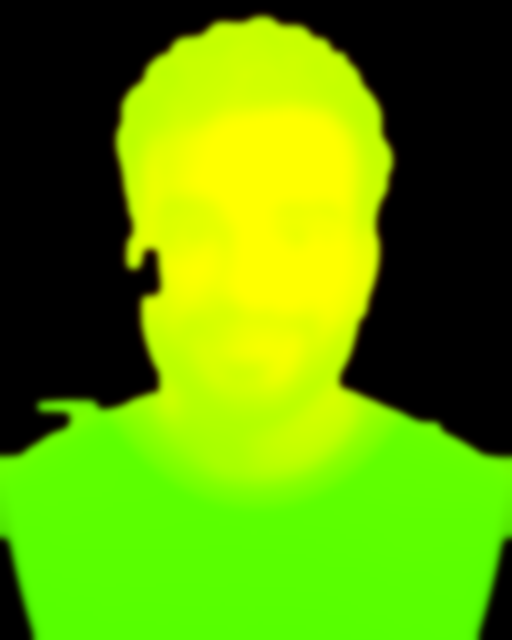
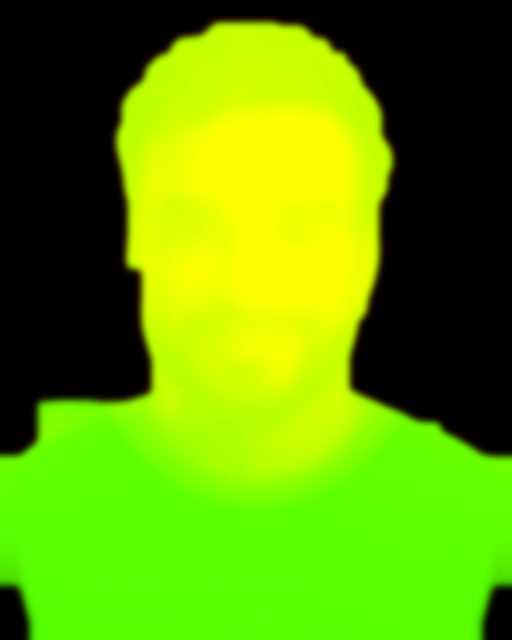
fix: stop the portrait mask slicing through the ear and temple
The displaced bust had a straight vertical cut down the left side of the face
and a pale wedge above the crown. Both were mask edges running through the
subject: in 3D a mask edge is not a soft boundary, it is a slice, because the
vertices behind it are pushed back and turned transparent.

- The lit rim of the ear against the panelling measures luminance 0.44 and
  warmth 0.17 — statistically indistinguishable from the wood behind it, so no
  colour threshold separates them and the ear fell into the dead zone between
  the darkness and skin cues. It is a narrow concavity in an otherwise convex
  head, so it is now closed geometrically instead. The genuinely wide
  concavity between neck and shoulders is far too broad for that radius to
  bridge, so the silhouette keeps its shape.
- A vertical seam in the panelling behind the crown is dark enough to trip the
  darkness cue and touches the hair, so it survived as a 14px spur against a
  13px opening — which erodes 6 per side and leaves 2px to regrow from.
  Widening the opening enough to kill it also ate detail at the ears, so
  everything above the first row wide enough to be a head is cleared instead.

Verified at 360x740 through 1920x1080: no overflow, no over-tall sticky panes,
no console errors.

Claude-Session: https://claude.ai/code/session_01ERrLNC7yMHLTYjqpwFh6NM

diff --git a/scripts/build-portrait-depth.py b/scripts/build-portrait-depth.py
@@ -104,6 +104,26 @@ def fill_holes(arr: np.ndarray, level: float = 0.5) -> np.ndarray:
     return np.clip(arr + holes, 0.0, 1.0)
 
 
+def trim_above_crown(arr: np.ndarray, min_width: int = 60, level: float = 0.5) -> np.ndarray:
+    """
+    Clear anything above the first row that is genuinely the head.
+
+    Vertical seams in the panelling behind the subject are dark enough to trip
+    the darkness cue and touch the hair, so they survive as narrow spurs — the
+    one here was 14px wide against a 13px opening, which erodes 6 per side and
+    leaves 2px to regrow from. Widening the opening far enough to kill it also
+    eats real detail at the ears. In a bust crop nothing legitimate sits above
+    the crown, so the first row wide enough to be a head is the ceiling.
+    """
+    rows = (arr > level).sum(axis=1)
+    wide = np.where(rows >= min_width)[0]
+    if len(wide) == 0:
+        return arr
+    out = arr.copy()
+    out[: wide[0]] = 0.0
+    return out
+
+
 def normalise(arr: np.ndarray, lo_pct: float = 2.0, hi_pct: float = 98.0) -> np.ndarray:
     lo, hi = np.percentile(arr, [lo_pct, hi_pct])
     if hi - lo < 1e-6:
@@ -161,7 +181,16 @@ def main() -> int:
     # Shave the stubs left where furniture grazed the shoulder line; displaced
     # into 3D they stick out of the bust as obvious slabs.
     mask = open_(filled * keep, 13)
+    mask = trim_above_crown(mask)
     mask = fill_holes(mask)
+    # Bridge concave bites in the silhouette. The lit rim of an ear against the
+    # wood behind it measures luminance 0.44 / warmth 0.17 — statistically the
+    # same as the panelling, so no threshold can separate them. Geometry can:
+    # a bite that narrow is closed here, while the genuinely wide concavity
+    # between neck and shoulders is far too broad for this radius to bridge.
+    # Displaced into 3D such a bite is not a soft edge, it is a slice through
+    # the side of the head.
+    mask = close(mask, 35)
     mask = blur(mask, 3.0)
     # A soft shoulder rather than a hard cut: a feathered silhouette reads as
     # intentional in a dark scene, a jagged one reads as a bad cut-out.
